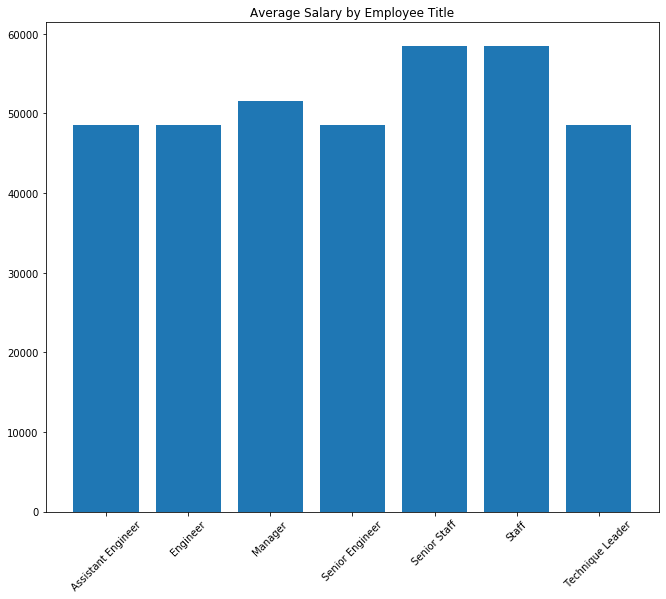
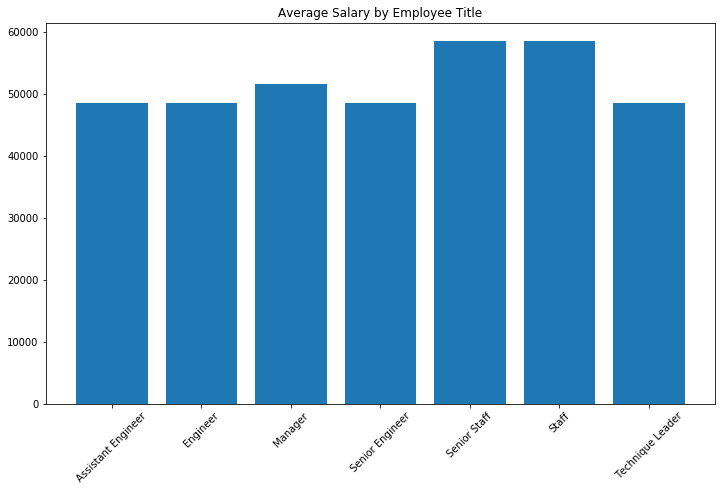
update REAMDE

Changed region(s): [[0.0, 0.0, 1.0, 0.9776], [0.3604, 0.1527, 0.4505, 0.1833], [0.8408, 0.947, 0.8709, 0.9776]]

diff --git a/Employee_SQL/employees_sqlalchemy.py b/Employee_SQL/employees_sqlalchemy.py
@@ -36,8 +36,9 @@ salary_title_pd = pd.DataFrame(data = data1)
 x_axis = salary_title_pd['title']
 y_axis = salary_title_pd['average_salary']
 
+fig = plt.figure(figsize = (12,7))
 plt.xticks(rotation = 45)
 plt.title ("Average Salary by Employee Title")
 plt.bar(x_axis, y_axis)
 
-plt.savefig("Average Salary by Employee Title.png")
+plt.savefig("Average_Salary_by_Employee_Title.png", bbox_inches = 'tight')
